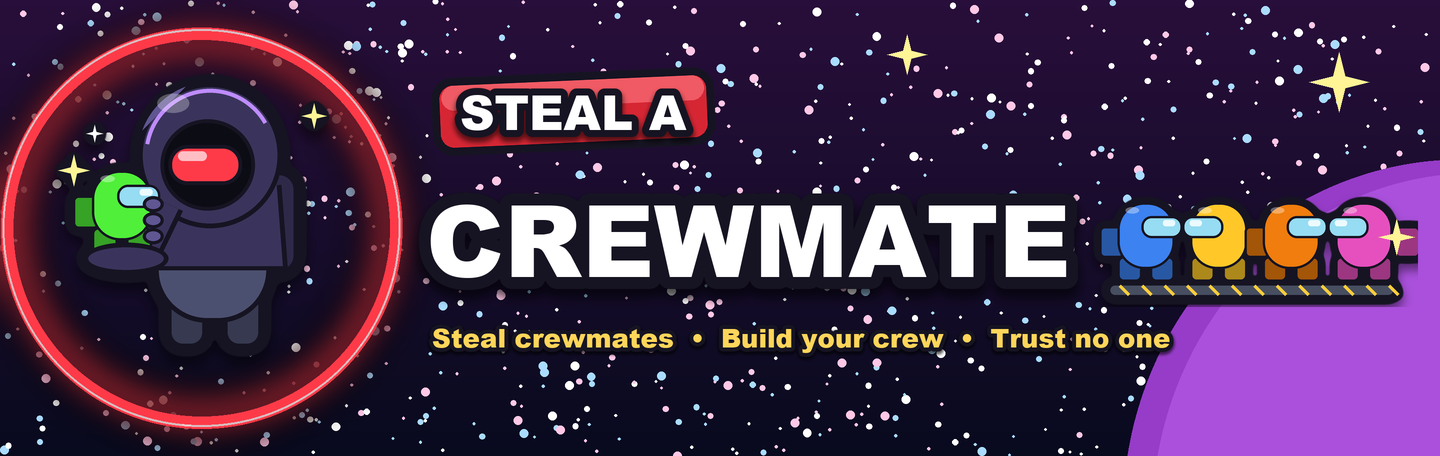
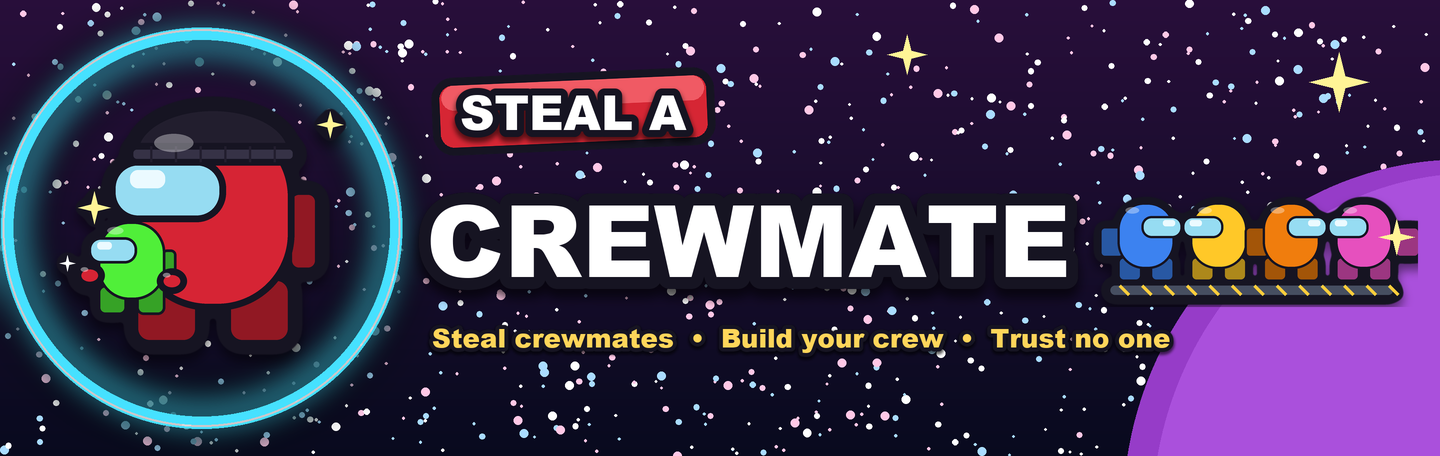
Topluluk logosu yenilendi: tek parca kirmizi hirsiz, bere, camgobegi halka

Changed region(s): [[0.0, 0.0307, 0.3125, 0.9825]]

diff --git a/tools/brand_art.py b/tools/brand_art.py
@@ -24,12 +24,12 @@ p = si.p
 DEST = os.path.join(si.ROOT, "branding")
 FONT = si.FONT
 
-HOOD = (58, 52, 92)
-HOOD_LIGHT = (96, 86, 146)
-BODY = (76, 80, 112)
-RIM = (190, 140, 255)
-RED = (255, 58, 72)
-LIME = (80, 239, 57)
+RED = (255, 58, 72)       # neon halka
+RING = (70, 225, 255)     # camgöbeği neon: kırmızı hırsızla ve yeşil ganimetle uyumlu
+THIEF = (214, 36, 52)     # hırsızın gövdesi: klasik impostor kırmızısı
+MASK = (34, 30, 46)       # hırsız beresi
+MASK_RIM = (54, 50, 70)   # berenin kıvrık kenarı
+LOOT = (80, 239, 57)      # çalınan mürettebat: yeşil
 
 
 def space(size, seed, top=(26, 18, 52), bottom=(4, 6, 16)):
@@ -62,65 +62,90 @@ def glow_ring(size, cx, cy, r, width, color):
     return Image.alpha_composite(out, ring)
 
 
+def crewmate(d, cx, by, h, col, face=1, pack=0.16):
+    """store_icons.crewmate'in aynısı; tek fark sırt çantası daha ince (`pack`, boya oranı)."""
+    w = h * 0.72
+    top = by - h
+    dark = si.shade(col, 0.68)
+    lw = max(int(LW * h / 200), 3 * S)
+    bx = cx - face * (w / 2 - h * 0.04)
+    x0, x1 = sorted((bx, bx - face * h * pack))
+    d.rounded_rectangle(p(x0 - face * h * 0.0, top + h * 0.3, x1, top + h * 0.68), radius=h * 0.06 * S,
+                        fill=dark, outline=OUT, width=lw)
+    d.rounded_rectangle(p(cx - w / 2, by - h * 0.32, cx - w * 0.07, by), radius=h * 0.08 * S, fill=dark, outline=OUT, width=lw)
+    d.rounded_rectangle(p(cx + w * 0.07, by - h * 0.32, cx + w / 2, by), radius=h * 0.08 * S, fill=dark, outline=OUT, width=lw)
+    d.rounded_rectangle(p(cx - w / 2, top, cx + w / 2, by - h * 0.16), radius=w * 0.47 * S, fill=col, outline=OUT, width=lw)
+    vx0 = cx - w * 0.08 if face > 0 else cx - w / 2 - h * 0.1
+    vx1 = cx + w / 2 + h * 0.1 if face > 0 else cx + w * 0.08
+    d.rounded_rectangle(p(vx0, top + h * 0.17, vx1, top + h * 0.45), radius=h * 0.13 * S, fill=(150, 220, 242), outline=OUT, width=lw)
+    hx = vx0 + (vx1 - vx0) * (0.52 if face > 0 else 0.18)
+    d.rounded_rectangle(p(hx, top + h * 0.22, hx + (vx1 - vx0) * 0.3, top + h * 0.3), radius=h * 0.035 * S, fill=(235, 250, 255))
+    si.gloss(d, (cx - w * 0.36, top + h * 0.06, cx - w * 0.12, top + h * 0.14), 90)
+
+
 def thief_art():
-    """Hırsız + elindeki mürettebat, 512'lik koordinatlarda, saydam, konturlu."""
+    """
+    Hırsız: tek parça klasik mürettebat silueti (kırmızı), başında siyah haydut
+    maskesi (arkadan uçuşan uçlarıyla), önde küçük bir el ve elinde çaldığı
+    yeşil mürettebat. 512'lik koordinatlarda, saydam, dış konturlu.
+
+    Önceki çizimde kapüşon, pelerin ve gövde ayrı ayrı konturlanıyordu;
+    parçalar birbirinden kopuk duruyordu. Burada gövde store_icons'un
+    mürettebatı (tek siluet), ekler az ve gövdenin rengiyle.
+    """
     art, d = si.new_art()
-    # Bacaklar ve sırt çantası (gövdenin arkasında)
-    d.rounded_rectangle(p(212, 340, 262, 418), radius=20 * S, fill=si.shade(BODY, 0.72), outline=OUT, width=LW)
-    d.rounded_rectangle(p(282, 340, 332, 418), radius=20 * S, fill=si.shade(BODY, 0.72), outline=OUT, width=LW)
-    d.rounded_rectangle(p(318, 196, 376, 326), radius=24 * S, fill=si.shade(HOOD, 0.8), outline=OUT, width=LW)
-    # Gövde
-    d.rounded_rectangle(p(196, 150, 342, 386), radius=66 * S, fill=BODY, outline=OUT, width=LW)
-    # Pelerin: omuzlardan inen kapüşon kumaşı
-    d.polygon(p(186, 214, 352, 214, 360, 318, 178, 318), fill=HOOD)
-    d.line(p(186, 214, 178, 318), fill=OUT, width=LW)
-    d.line(p(352, 214, 360, 318), fill=OUT, width=LW)
-    d.line(p(178, 318, 360, 318), fill=OUT, width=int(LW * 0.9))
-    # Kapüşon: gövdeden geniş kubbe, yüz açıklığı karanlık
-    d.ellipse(p(176, 86, 356, 268), fill=HOOD, outline=OUT, width=LW)
-    d.chord(p(176, 86, 356, 268), 200, 250, fill=HOOD_LIGHT)
-    # Kenar ışığı: mor ince çizgi, karanlıkta siluet belli olsun
-    d.arc(p(184, 94, 348, 260), 190, 330, fill=RIM, width=5 * S)
-    d.ellipse(p(204, 132, 322, 246), fill=(12, 12, 20), outline=OUT, width=int(LW * 0.8))
-    # Kırmızı vizör (parlaması aşağıda ayrı katmanda)
-    d.rounded_rectangle(p(214, 164, 306, 214), radius=24 * S, fill=RED, outline=OUT, width=int(LW * 0.8))
-    d.rounded_rectangle(p(226, 172, 262, 184), radius=6 * S, fill=(255, 190, 196))
-    si.gloss(d, (200, 100, 240, 124), 70)
-    # Kol: omuzdan öndeki ele
-    d.line(p(214, 238, 184, 300), fill=OUT, width=40 * S)
-    d.line(p(214, 238, 184, 300), fill=HOOD, width=28 * S)
-    # Çalınan küçük mürettebat (yeşil), elin üstünde, hırsıza bakıyor
-    si.crewmate(d, 156, 300, 104, LIME, 1)
-    # El: mürettebatı alttan kavrayan avuç, parmaklar gövdesini yandan sarıyor
-    d.ellipse(p(108, 286, 214, 326), fill=HOOD, outline=OUT, width=LW)
-    for fy in (238, 258, 278):
-        d.ellipse(p(182, fy - 10, 208, fy + 10), fill=HOOD_LIGHT, outline=OUT, width=int(LW * 0.7))
+    cx, by, h = 292, 424, 300
+    w = h * 0.72
+    top = by - h
+    lw = max(int(LW * h / 200), 3 * S)
+
+    # Gövde: sola bakan klasik mürettebat (vizör solda, sırt çantası sağda)
+    crewmate(d, cx, by, h, THIEF, -1)
+
+    # Hırsız beresi: başın üstünü saran siyah örgü bere, kıvrık kenarı vizöre iniyor
+    d.chord(p(cx - w * 0.5, top - h * 0.07, cx + w * 0.5, top + h * 0.36), 180, 360, fill=MASK, outline=OUT, width=lw)
+    d.rounded_rectangle(p(cx - w * 0.53, top + h * 0.1, cx + w * 0.53, top + h * 0.2),
+                        radius=h * 0.045 * S, fill=MASK_RIM, outline=OUT, width=lw)
+    for i in range(1, 7):
+        x = cx - w * 0.53 + i * (w * 1.06 / 7)
+        d.line(p(x, top + h * 0.115, x, top + h * 0.185), fill=MASK, width=3 * S)
+
+    # Çalınan küçük mürettebat (yeşil), hırsızın önünde, iki eldivenle tutuluyor
+    small_h = 124
+    small_w = small_h * 0.72
+    scx, sby = cx - w * 0.5, by - h * 0.14
+    crewmate(d, scx, sby, small_h, LOOT, -1)
+    for mx, my in ((scx - small_w * 0.62, sby - small_h * 0.42), (scx + small_w * 0.6, sby - small_h * 0.36)):
+        d.ellipse(p(mx - 20, my - 17, mx + 20, my + 17), fill=THIEF, outline=OUT, width=lw)
+        si.gloss(d, (mx - 12, my - 11, mx - 2, my - 5), 110)
+
     # Işıltılar: parlak ganimet
-    si.sparkle(d, 96, 196, 20, (255, 244, 150))
-    si.sparkle(d, 122, 150, 11)
-    si.sparkle(d, 396, 128, 16, (255, 244, 150))
+    si.sparkle(d, scx - small_w * 0.55, sby - small_h - 18, 22, (255, 244, 150))
+    si.sparkle(d, scx - small_w * 0.95, sby - small_h * 0.55, 11)
+    si.sparkle(d, cx + w * 0.72, top + h * 0.02, 18, (255, 244, 150))
+
     art = si.stamp(Image.new("RGBA", (W, W), (0, 0, 0, 0)), art, outline=6)
-    # Vizör parlaması: gözler karanlıkta yanıyor
-    glow = Image.new("RGBA", (W, W), (0, 0, 0, 0))
-    ImageDraw.Draw(glow).rounded_rectangle(p(206, 156, 314, 222), radius=30 * S, fill=RED + (170,))
-    glow = glow.filter(ImageFilter.GaussianBlur(14 * S))
-    return Image.alpha_composite(glow, art)
+    return art
+
+
+def fit_into(canvas, art, cx, cy, diameter):
+    """Çizimin dolu kısmını `diameter` karesine sığdırıp (cx, cy)'ye ortalar."""
+    box = art.split()[3].point(lambda v: 255 if v > 12 else 0).getbbox()
+    piece = art.crop(box)
+    k = diameter / max(piece.size)
+    piece = piece.resize((max(1, int(piece.width * k)), max(1, int(piece.height * k))), Image.LANCZOS)
+    canvas.alpha_composite(piece, (int(cx - piece.width / 2), int(cy - piece.height / 2)))
 
 
 def emblem():
     size = (W, W)
     img = space(size, 7)
-    # Halkanın içi biraz daha aydınlık: logo zeminden ayrılsın
+    # Halkanın içi hafif kırmızı-mor: logo zeminden ayrılsın, halkayla bütünleşsin
     halo = Image.new("RGBA", size, (0, 0, 0, 0))
-    ImageDraw.Draw(halo).ellipse(p(66, 66, 446, 446), fill=(120, 30, 60, 120))
+    ImageDraw.Draw(halo).ellipse(p(66, 66, 446, 446), fill=(40, 60, 130, 150))
     img = Image.alpha_composite(img, halo.filter(ImageFilter.GaussianBlur(40 * S)))
-    img = Image.alpha_composite(img, glow_ring(size, W / 2, W / 2, 196 * S, 14 * S, RED))
-    art = thief_art()
-    # Halkanın içine sığsın: küçült ve ortala (çizimin merkezi ~(246, 252))
-    k = 0.8
-    small = art.resize((int(W * k), int(W * k)), Image.LANCZOS)
-    cx, cy = 246 * S * k, 252 * S * k
-    img.alpha_composite(small, (int(W / 2 - cx), int(W / 2 + 8 * S - cy)))
+    img = Image.alpha_composite(img, glow_ring(size, W / 2, W / 2, 196 * S, 14 * S, RING))
+    fit_into(img, thief_art(), W / 2, W / 2 + 6 * S, 318 * S)
     return img.convert("RGB").resize((1024, 1024), Image.LANCZOS)
 
 
@@ -148,10 +173,9 @@ def cover():
     pd.ellipse([w * 0.78, h * 0.35, w * 1.25, h * 1.9], fill=(150, 60, 200, 255))
     pd.ellipse([w * 0.8, h * 0.38, w * 1.25, h * 1.9], fill=(170, 80, 220, 255))
     img = Image.alpha_composite(img, planet)
-    ring = glow_ring((w, h), int(w * 0.14), int(h * 0.5), int(h * 0.44), int(h * 0.028), RED)
+    ring = glow_ring((w, h), int(w * 0.14), int(h * 0.5), int(h * 0.44), int(h * 0.028), RING)
     img = Image.alpha_composite(img, ring)
-    art = thief_art().resize((int(h * 0.9), int(h * 0.9)), Image.LANCZOS)
-    img.alpha_composite(art, (int(w * 0.14 - art.width / 2), int(h * 0.5 - art.height / 2 - h * 0.02)))
+    fit_into(img, thief_art(), w * 0.14, h * 0.5 + h * 0.01, h * 0.66)
 
     # Başlık: kırmızı "STEAL A" rozeti + dev "CREWMATE"
     x0 = int(w * 0.3)
